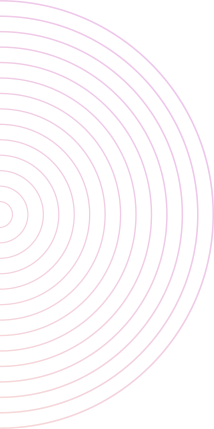
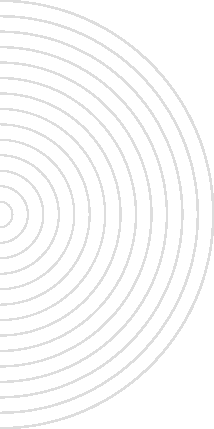
atualização das cores das imagens

diff --git a/assets/css/style.css b/assets/css/style.css
@@ -245,7 +245,7 @@ header
 --------------------------------------------- 
 */
 .background-header {
-  background: #eadcba;
+  background: #d0af8b;
   height: 80px!important;
   position: fixed!important;
   top: 0!important;
@@ -255,7 +255,7 @@ header
 }
 
 .header-area {
-  background: #eadcba !important;
+  background: #d0af8b !important;
   position: absolute;
   height: 110px;
   align-items: center;

diff --git a/index.php b/index.php
@@ -9,18 +9,21 @@
     <meta name="author" content="Ana Clara Martins">
     <meta name="keywords" content="psicóloga, consulta, ana, clara, martins, consultorio, psicologia">
     <meta name="robots" content="index,follow,nosnippet">
-    <!-- <meta http-equiv="refresh" content="5;url=http://localhost/projetos/consultorio/index.php"> -->
+    <!-- <meta http-equiv="refresh" content="5;url=http://psianaclaramartins.com.br/index"> -->
     <meta name="language" content="pt-BR">
 
     <meta property="og:title" content="Psicóloga Ana Clara Martins - Atendimento Terapêutico e Apoio Emocional">
     <meta property="og:description" content="Conheça os serviços de psicoterapia e apoio emocional oferecidos por Ana Clara Martins, psicóloga dedicada ao bem-estar dos pacientes.">
-    <meta property="og:image" content="https://www.seusite.com/imagem-compartilhamento.jpg">
-    <!-- <meta property="og:url" content="http://localhost/projetos/consultorio/index.php"> -->
+    <meta property="og:image" content="https://psianaclaramartins.com.br/imagens/IMG_0942.jpg">
+    <!-- <meta property="og:url" content="https://psianaclaramartins.com.br/index"> -->
     <meta name="geo.position" content="latitude;longitude">
 
 
-    <link rel="canonical" href="http://localhost/projetos/consultorio/">
+    <link rel="canonical" href="http://localhost/consultorio/">
     <link href="https://fonts.googleapis.com/css?family=Open+Sans:100,200,300,400,500,600,700,800,900" rel="stylesheet">
+    <link rel="preconnect" href="https://fonts.googleapis.com">
+    <link rel="preconnect" href="https://fonts.gstatic.com" crossorigin>
+    <link href="https://fonts.googleapis.com/css2?family=La+Belle+Aurore&display=swap" rel="stylesheet">
 
     <title>Ana Clara Martins &#8211; Piscóloga</title>
     <link rel="icon" type="image/x-icon" href="assets\images\logo.png">
@@ -90,7 +93,7 @@
       <div class="row">
         <div class="col-lg-6 align-self-center">
           <div class="header-text">
-            <h2>Terapia Comportamental<br><em>Ana Clara Martins Psicóloga</em></h2>
+            <h2 style="font-family: 'La Belle Aurore', cursive;">Terapia Congnitivo Comportamental<br><em>Psicóloga <br> Ana Clara Martins</em></h2>
             <div class="main-button-gradient ">
               <a class="pulse" href="https://api.whatsapp.com/send?1=pt_BR&phone=5531971084977&text=Ol%C3%A1!%20Gostaria%20de%20agendar%20minha%20consulta!" target="_blank">Agendar agora!</a>
             </div>
@@ -361,7 +364,7 @@
         </div>
         <div class="col-lg-12">
           <ul class="social-icons">
-            <li><a target="blank" href="https://www.instagram.com/anaclaramartins_psi/?igshid=MzRlODBiNWFlZA%3D%3D"><i class="fa fa-instagram"></i></a></li>
+            <!-- <li><a target="blank" href="https://www.instagram.com/anaclaramartins_psi/?igshid=MzRlODBiNWFlZA%3D%3D"><i class="fa fa-instagram"></i></a></li> -->
             <li><a href="https://api.whatsapp.com/send?1=pt_BR&phone=5531971084977&text=Ol%C3%A1!%20Gostaria%20de%20agendar%20minha%20consulta!" target="_blank"><svg xmlns="http://www.w3.org/2000/svg" width="16" height="16" fill="currentColor" class="bi bi-whatsapp" style="position:relative; bottom: 2px" viewBox="0 0 16 16">
               <path d="M13.601 2.326A7.854 7.854 0 0 0 7.994 0C3.627 0 .068 3.558.064 7.926c0 1.399.366 2.76 1.057 3.965L0 16l4.204-1.102a7.933 7.933 0 0 0 3.79.965h.004c4.368 0 7.926-3.558 7.93-7.93A7.898 7.898 0 0 0 13.6 2.326zM7.994 14.521a6.573 6.573 0 0 1-3.356-.92l-.24-.144-2.494.654.666-2.433-.156-.251a6.56 6.56 0 0 1-1.007-3.505c0-3.626 2.957-6.584 6.591-6.584a6.56 6.56 0 0 1 4.66 1.931 6.557 6.557 0 0 1 1.928 4.66c-.004 3.639-2.961 6.592-6.592 6.592zm3.615-4.934c-.197-.099-1.17-.578-1.353-.646-.182-.065-.315-.099-.445.099-.133.197-.513.646-.627.775-.114.133-.232.148-.43.05-.197-.1-.836-.308-1.592-.985-.59-.525-.985-1.175-1.103-1.372-.114-.198-.011-.304.088-.403.087-.088.197-.232.296-.346.1-.114.133-.198.198-.33.065-.134.034-.248-.015-.347-.05-.099-.445-1.076-.612-1.47-.16-.389-.323-.335-.445-.34-.114-.007-.247-.007-.38-.007a.729.729 0 0 0-.529.247c-.182.198-.691.677-.691 1.654 0 .977.71 1.916.81 2.049.098.133 1.394 2.132 3.383 2.992.47.205.84.326 1.129.418.475.152.904.129 1.246.08.38-.058 1.171-.48 1.338-.943.164-.464.164-.86.114-.943-.049-.084-.182-.133-.38-.232z"/>
             </svg></a></li>
